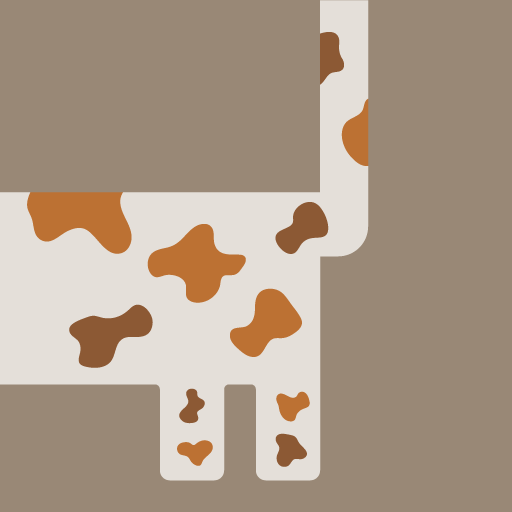
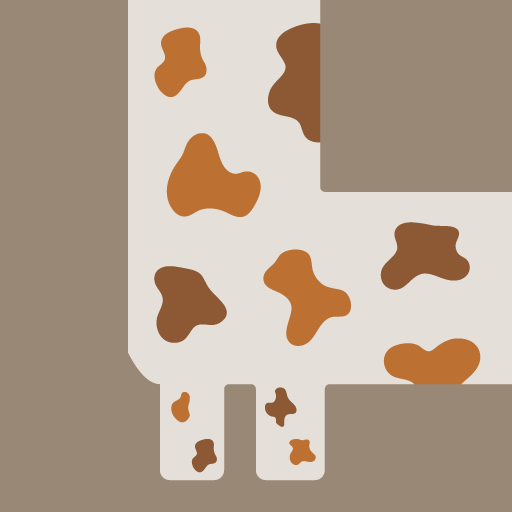
Codigo terminado con 6 azulejos

diff --git a/sketch.js b/sketch.js
@@ -1,11 +1,12 @@
 const celdas = [];
 const RETICULA = 6;
+
 // ancho y alto de la celda
 let ancho;
 let alto;
 
 const azulejos = [];
-const NA = 5; //numero de azulejos
+const NA = 6; //numero de azulejos
 
 const reglas = [
   //reglas de los bordes de cada azulejo
@@ -13,36 +14,43 @@ const reglas = [
     //tile 0
     UP: 0,
     RIGTH: 0,
-    DOWN: 1,
+    DOWN: 0,
     LEFT: 0,
   },
   {
     //tile 1
-    UP: 1,
-    RIGTH: 4,
-    DOWN: 0,
+    UP: 0,
+    RIGTH: 0,
+    DOWN: 1,
     LEFT: 0,
   },
   {
     //tile 2
-    UP: 2,
-    RIGTH: 0,
+    UP: 1,
+    RIGTH: 2,
     DOWN: 0,
-    LEFT: 4,
+    LEFT: 0,
   },
   {
     //tile 3
-    UP: 0,
-    RIGTH: 3,
-    DOWN: 2,
-    LEFT: 0,
+    UP: 3,
+    RIGTH: 0,
+    DOWN: 0,
+    LEFT: 2,
   },
   {
     //tile 4
     UP: 0,
+    RIGTH: 4,
+    DOWN: 3,
+    LEFT: 0,
+  },
+  {
+    //tile 5
+    UP: 0,
     RIGTH: 0,
     DOWN: 0,
-    LEFT: 3,
+    LEFT: 4,
   },
 ];
 
